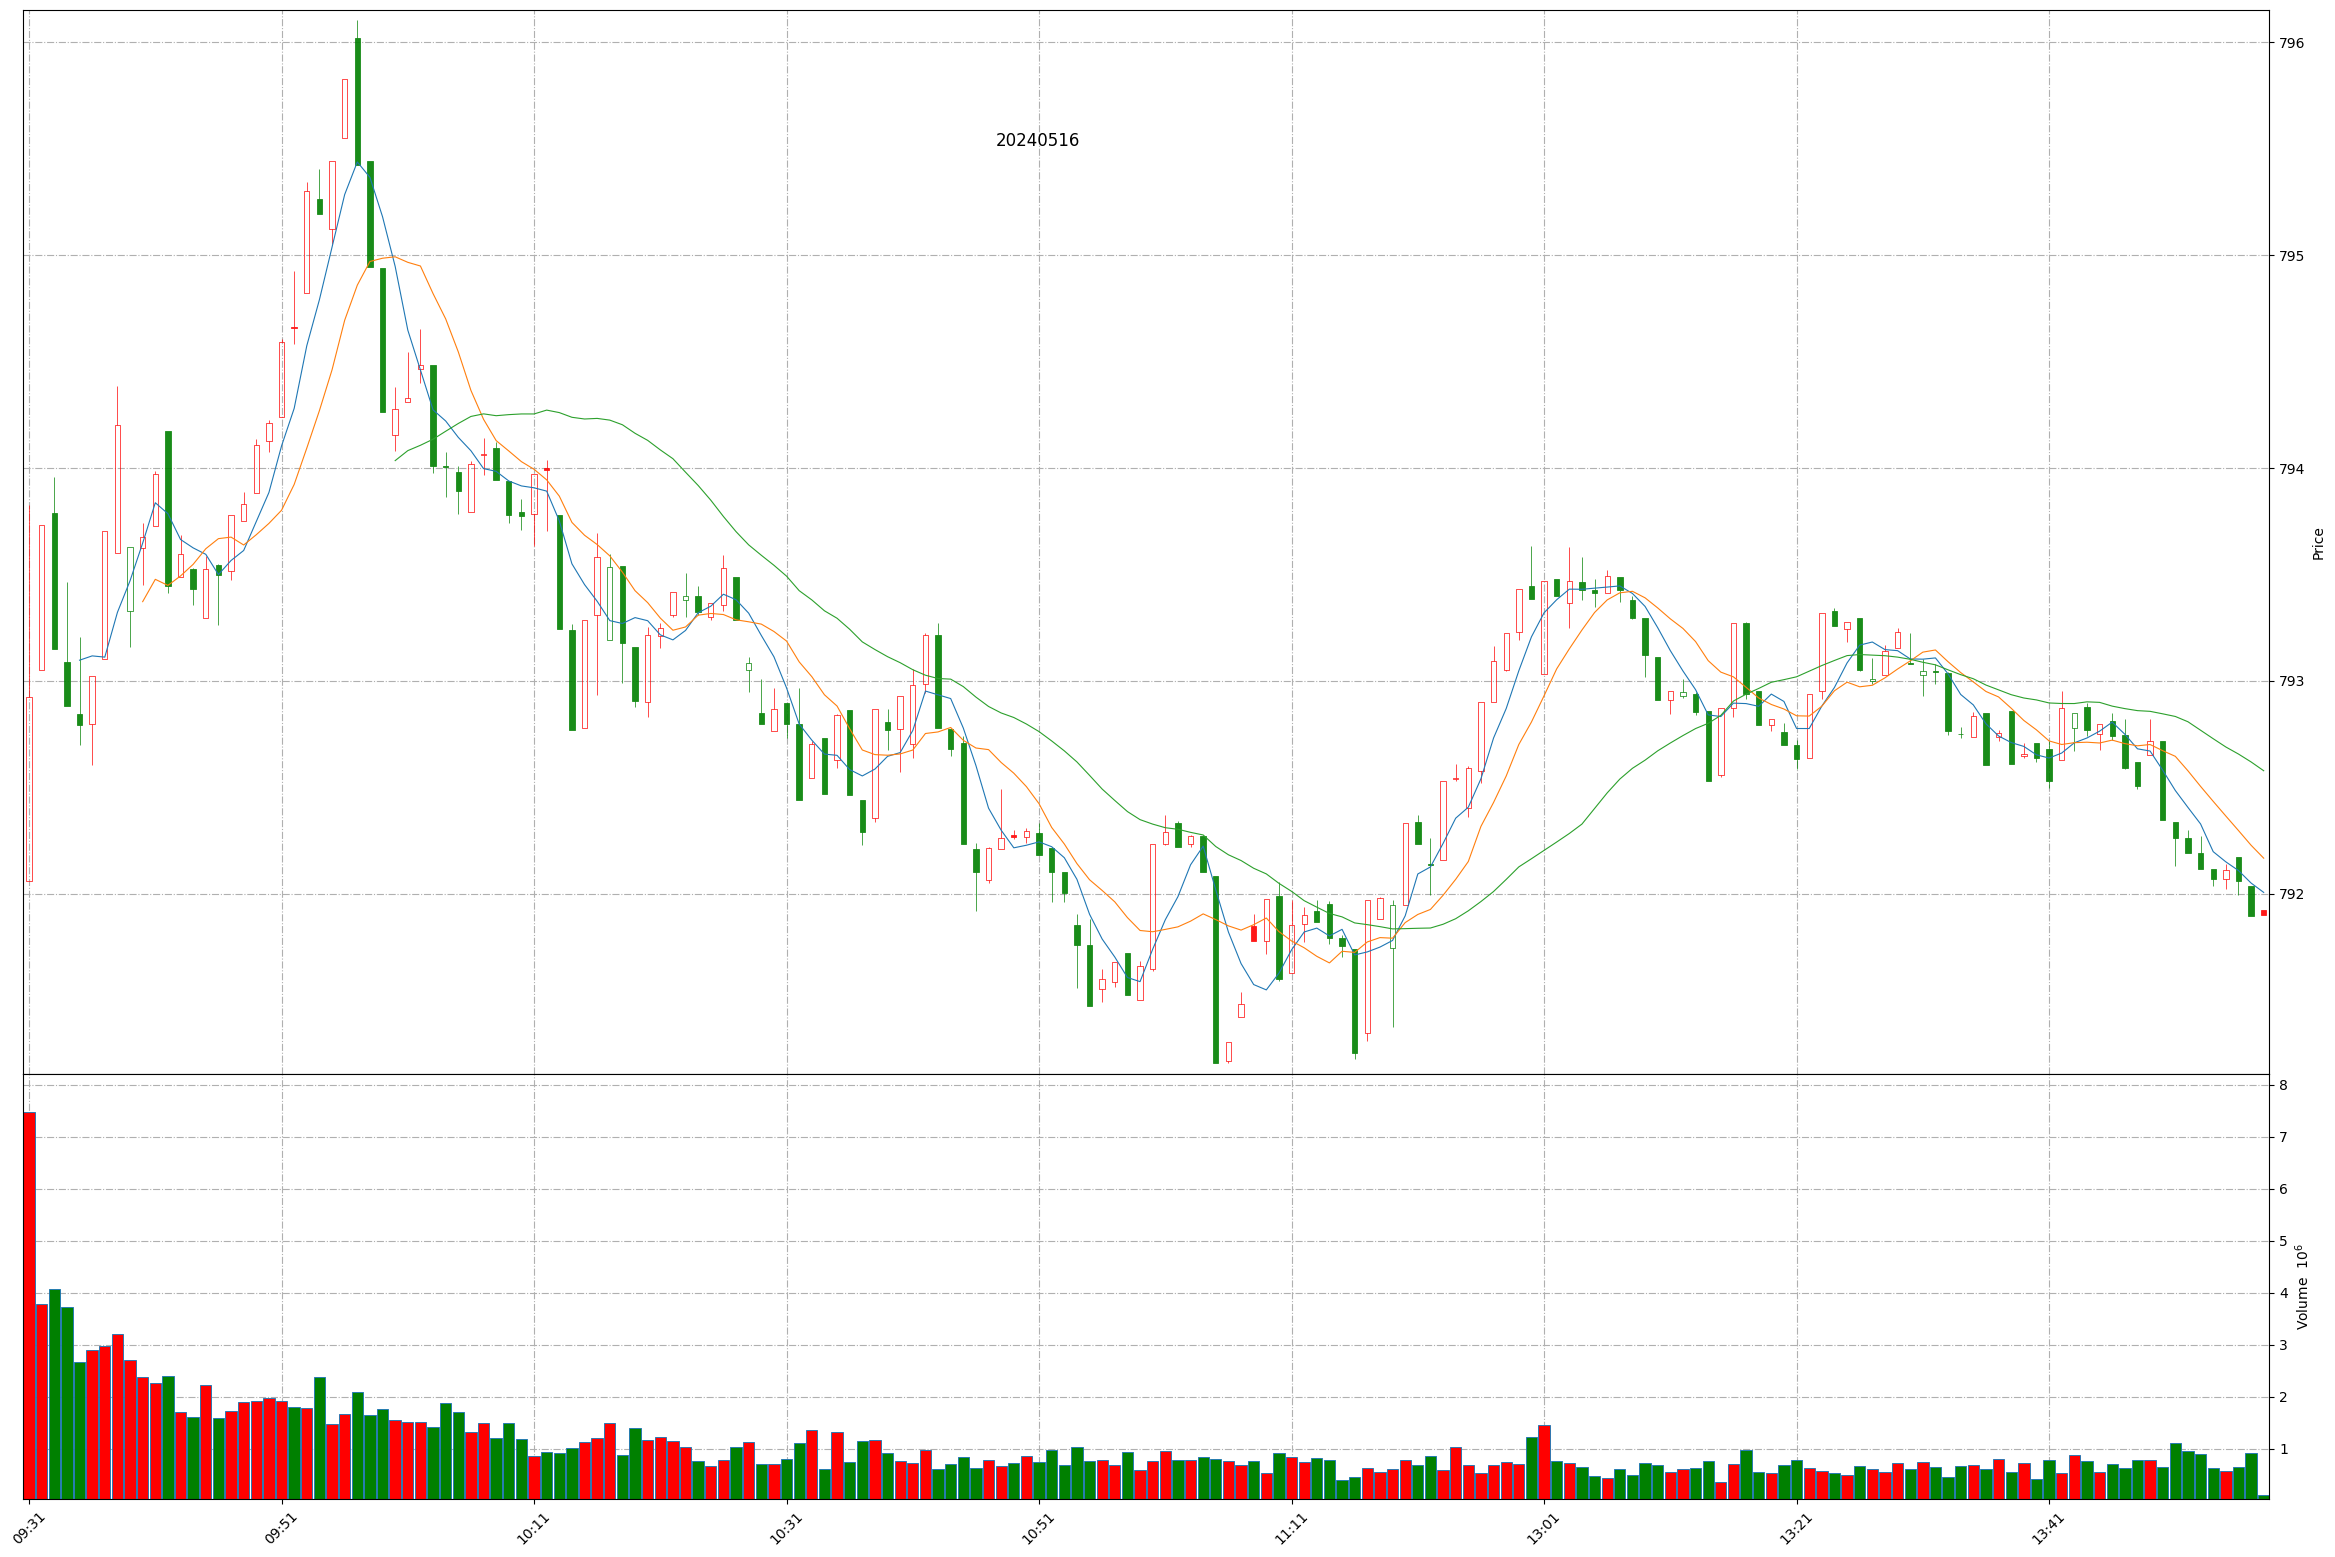
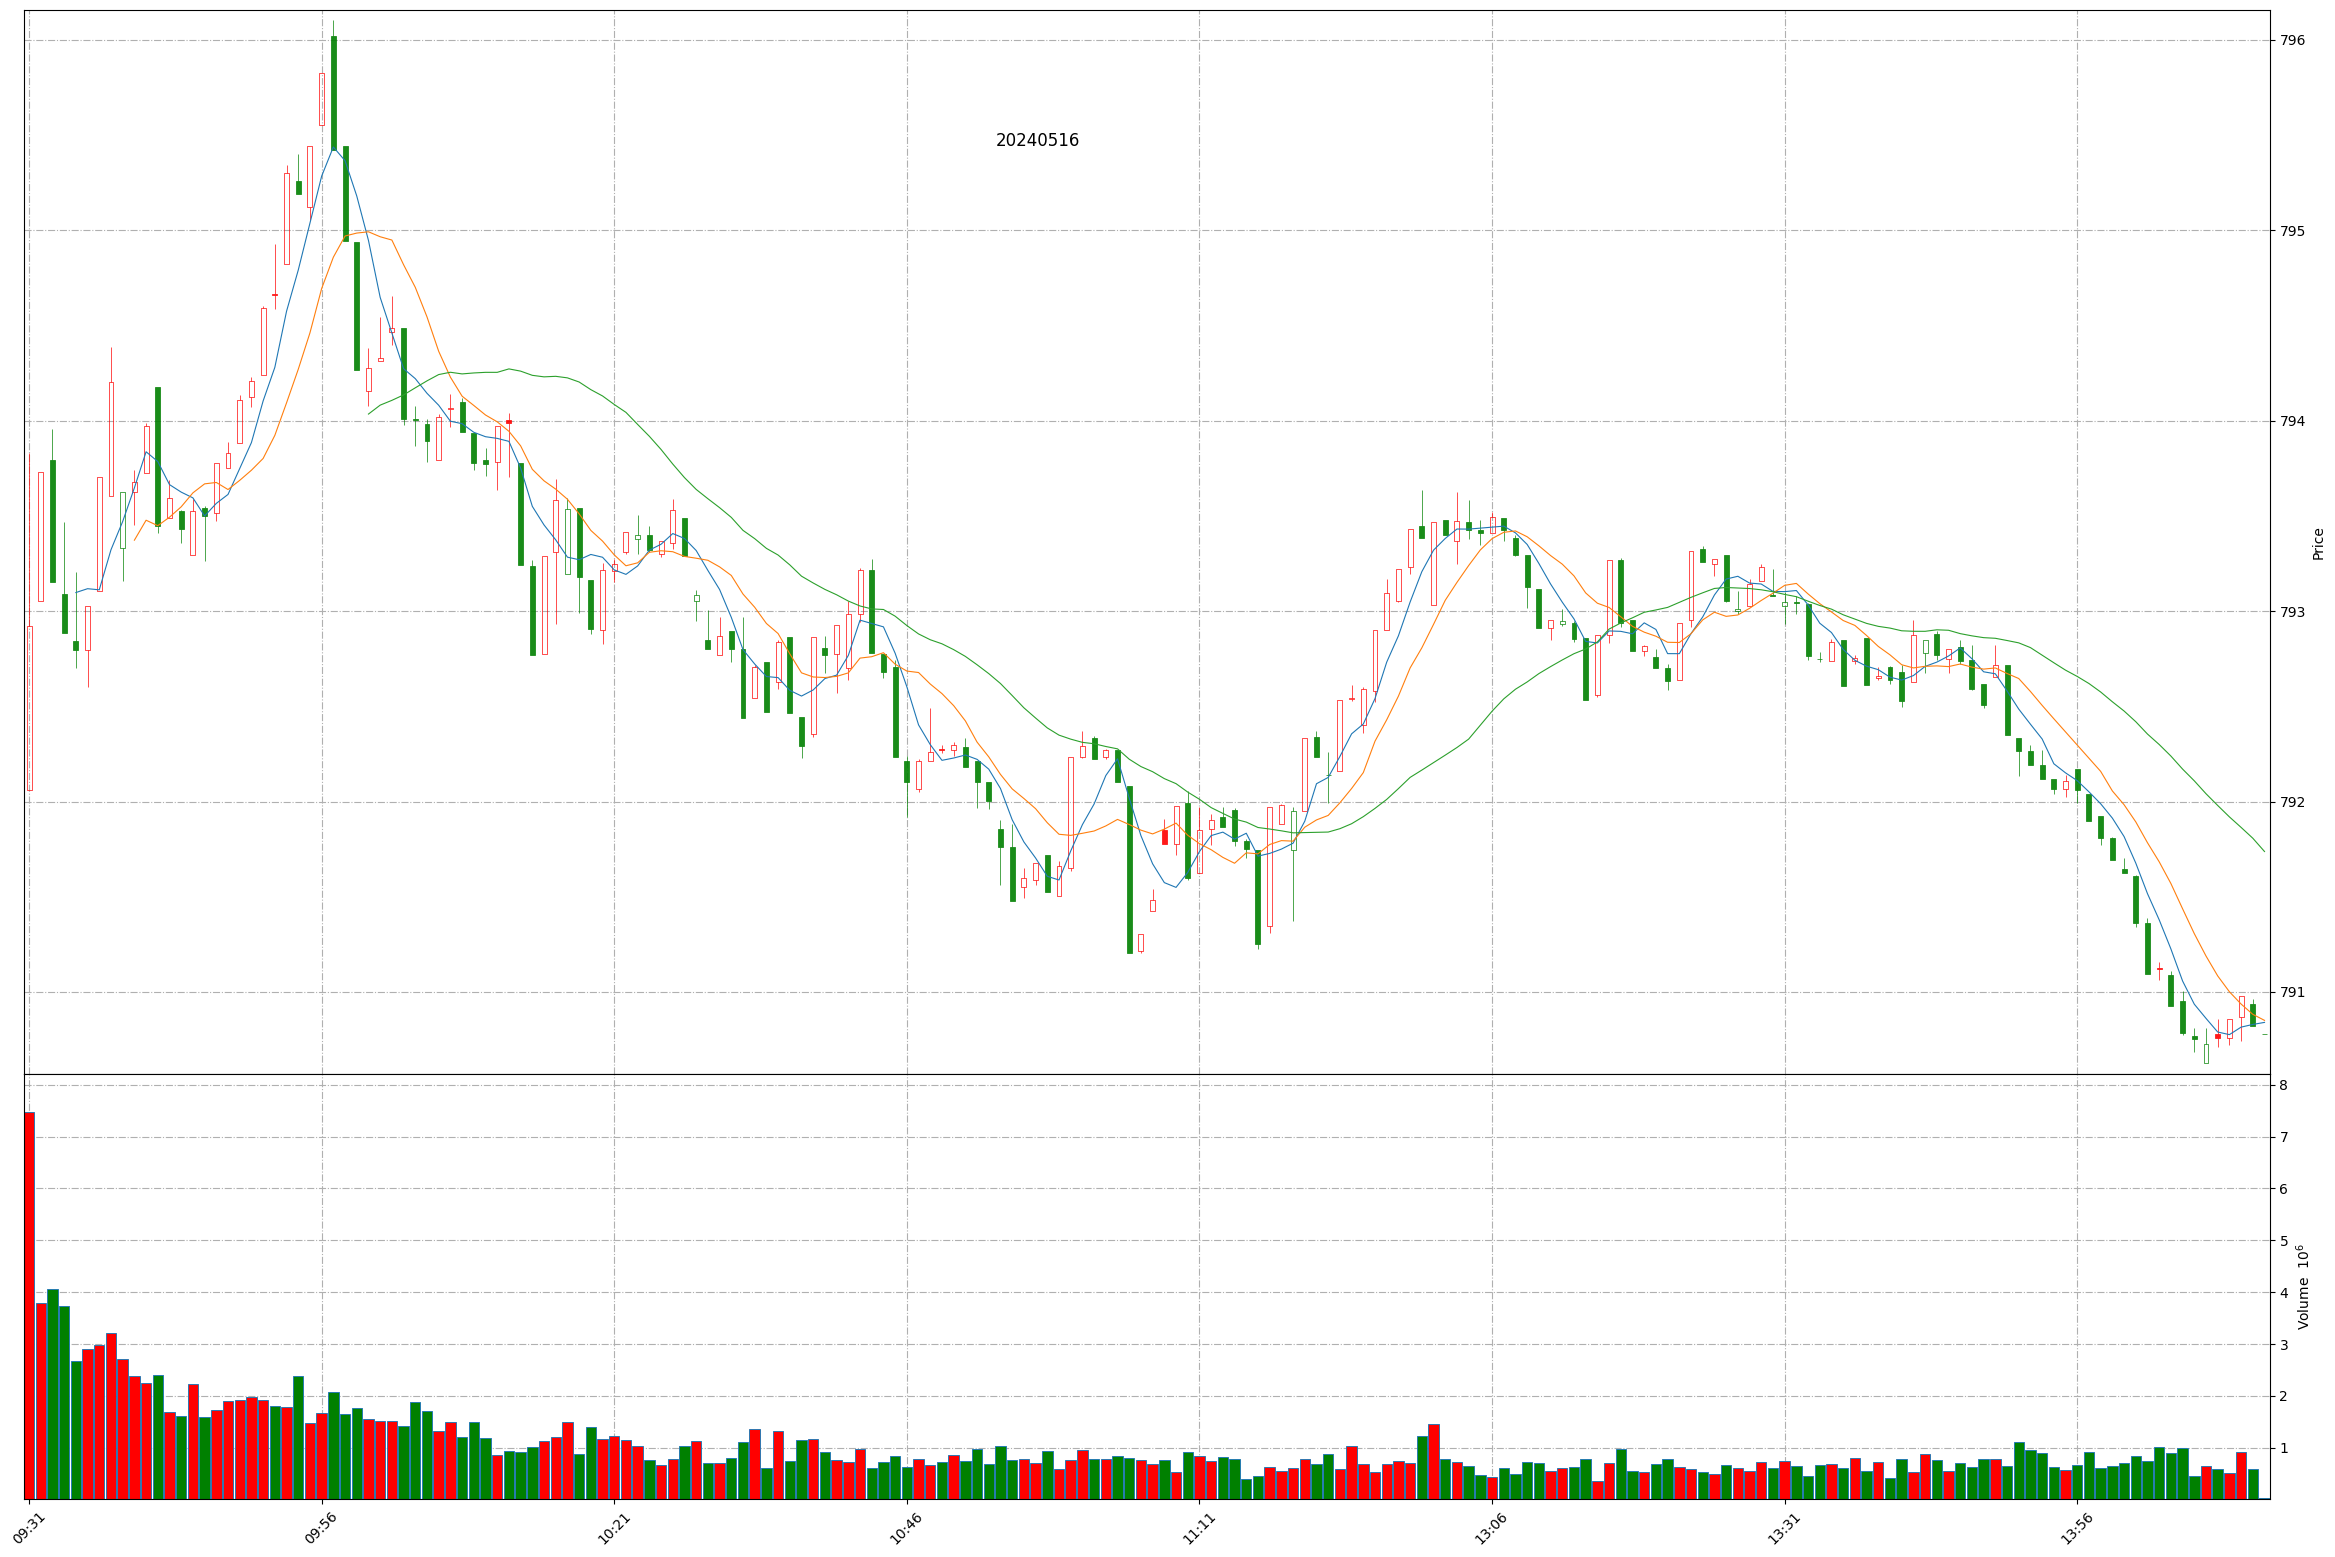
Github action update at 2024-05-16 14:11:19.

diff --git a/README.md b/README.md
@@ -1,11 +1,11 @@
 
 # Daily-A-share-market-quotes 每日 A 股指数（5min 更新）- 20240516
 
-### 上证指数 20240516 13:57
+### 上证指数 20240516 14:11
 ![](./fig/2024/5/20240516-sh000001.png)
 
-### 深证成指 20240516 13:57
+### 深证成指 20240516 14:11
 ![](./fig/2024/5/20240516-sz399001.png)
 
-### 北证50 20240516 13:57
+### 北证50 20240516 14:11
 ![](./fig/2024/5/20240516-bj899050.png)
